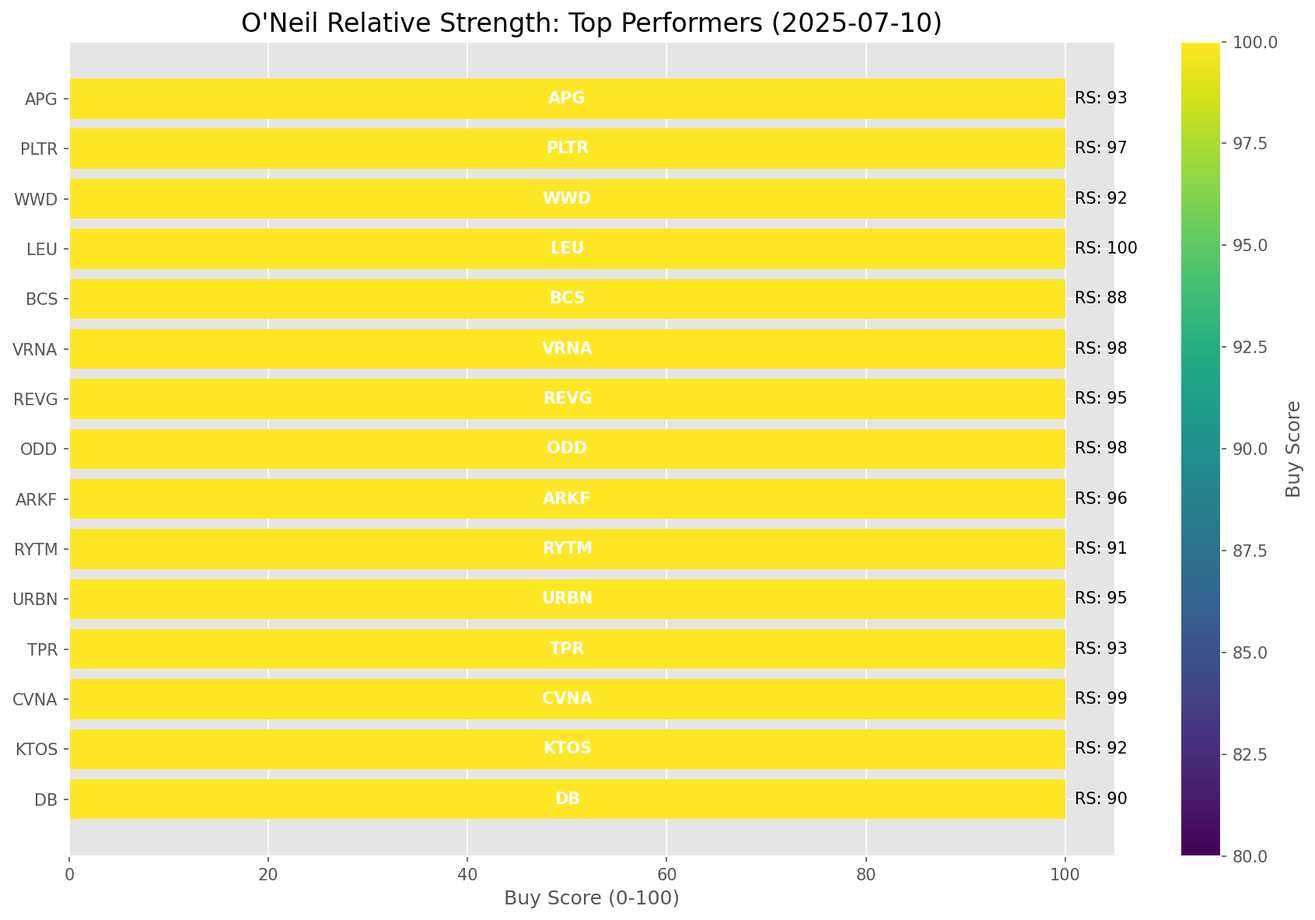
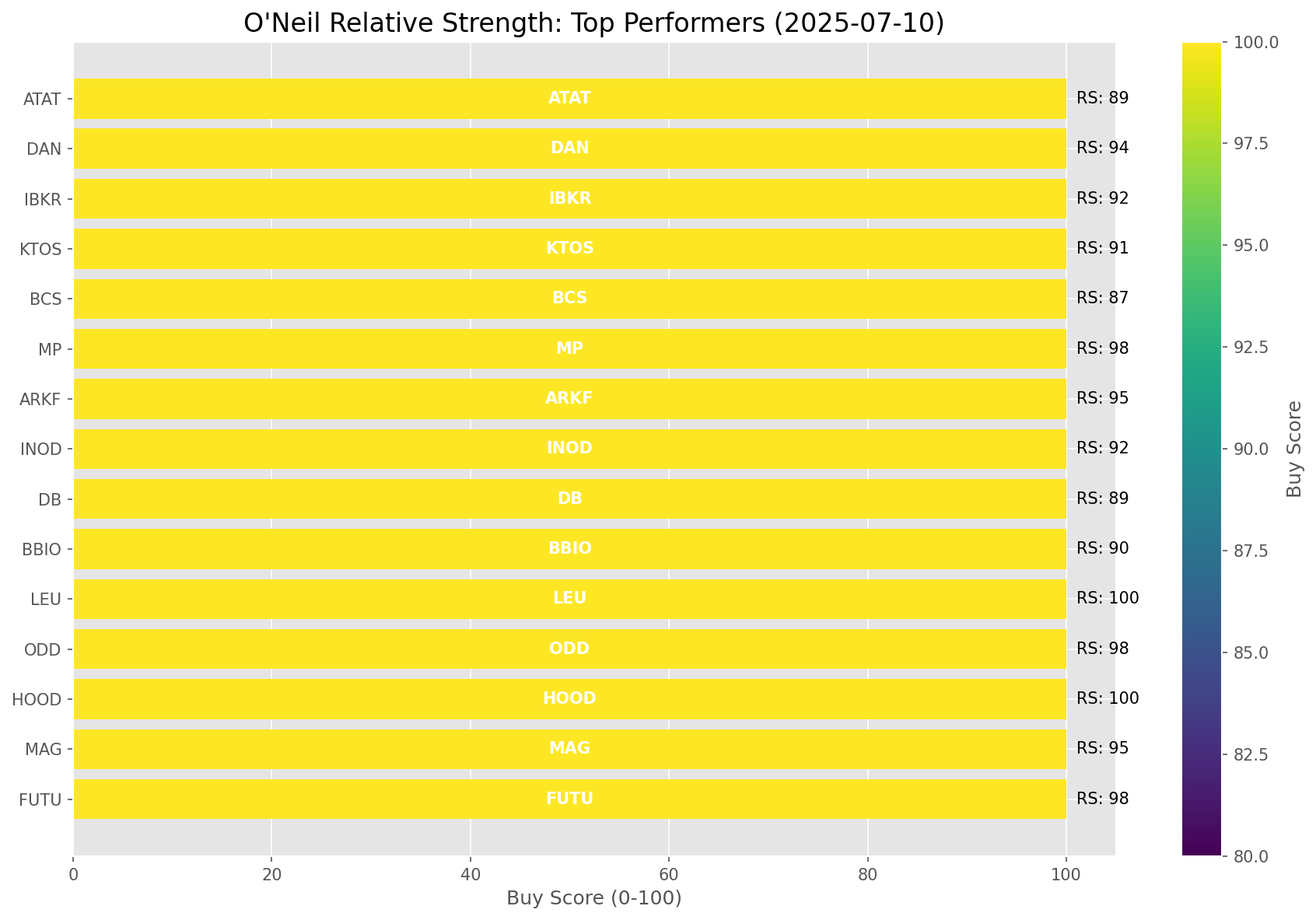
Add market report for 2025-07-10

diff --git a/oneil_relative_strength_report_2025-07-10.md b/oneil_relative_strength_report_2025-07-10.md
@@ -9,11 +9,11 @@
 | Metric | Value |
 |--------|-------|
 | **Market Valuation** | **Overvalued** |
-| **Current Ratio** | 10.26 |
+| **Current Ratio** | 10.28 |
 | **Historical Mean** | 9.44 |
 | **Standard Deviation** | 0.51 |
 | **Z-Score (StdDev from Mean)** | 1.62 |
-| **Total Market Cap** | $307.52 trillion |
+| **Total Market Cap** | $308.08 trillion |
 | **GDP** | $29.96 trillion |
 
 ## **Market Insights**
@@ -49,41 +49,41 @@ Based on William O'Neil's Relative Strength Methodology
 
 | ETF | Strength | RS Rating | Performance | Above Key MAs | Trend | Sector |
 |-----|----------|-----------|-------------|--------------|-------|--------|
-| [ARKK](https://www.tradingview.com/chart/?symbol=ARKK) | 98.5 | 97.0 | 79.26% | 10d ✓, 50d ✓, 200d ✓ | ↗ | Innovation |
+| [ARKK](https://www.tradingview.com/chart/?symbol=ARKK) | 98.0 | 96.0 | 79.47% | 10d ✓, 50d ✓, 200d ✓ | ↗ | Innovation |
 | [ARKW](https://www.tradingview.com/chart/?symbol=ARKW) | 98.0 | 96.0 | 76.14% | 10d ✓, 50d ✓, 200d ✓ | ↗ | Next Generation Internet |
-| [ARKF](https://www.tradingview.com/chart/?symbol=ARKF) | 98.0 | 96.0 | 73.83% | 10d ✓, 50d ✓, 200d ✓ | ↗ | Fintech Innovation |
-| [BLOK](https://www.tradingview.com/chart/?symbol=BLOK) | 95.5 | 91.0 | 54.17% | 10d ✓, 50d ✓, 200d ✓ | ↗ | Blockchain & Cryptocurrency |
-| [JETS](https://www.tradingview.com/chart/?symbol=JETS) | 93.5 | 87.0 | 45.94% | 10d ✓, 50d ✓, 200d ✓ | ↗ | Airlines |
-| [XLK](https://www.tradingview.com/chart/?symbol=XLK) | 92.5 | 85.0 | 42.58% | 10d ✓, 50d ✓, 200d ✓ | ↗ | Technology |
-| [URA](https://www.tradingview.com/chart/?symbol=URA) | 88.6 | 97.0 | 80.85% | 10d ✗, 50d ✓, 200d ✓ | ↗ | Uranium |
-| [PAVE](https://www.tradingview.com/chart/?symbol=PAVE) | 88.0 | 76.0 | 33.44% | 10d ✓, 50d ✓, 200d ✓ | ↗ | Infrastructure |
-| [XLI](https://www.tradingview.com/chart/?symbol=XLI) | 85.5 | 71.0 | 29.28% | 10d ✓, 50d ✓, 200d ✓ | ↗ | Industrial |
-| [XLY](https://www.tradingview.com/chart/?symbol=XLY) | 81.5 | 63.0 | 25.20% | 10d ✓, 50d ✓, 200d ✓ | ↗ | Consumer Discretionary |
-| [AIQ](https://www.tradingview.com/chart/?symbol=AIQ) | 80.6 | 81.0 | 38.03% | 10d ✗, 50d ✓, 200d ✓ | ↗ | Artificial Intelligence & Technology |
-| [SLV](https://www.tradingview.com/chart/?symbol=SLV) | 79.0 | 58.0 | 22.72% | 10d ✓, 50d ✓, 200d ✓ | ↗ | Silver |
-| [SOXX](https://www.tradingview.com/chart/?symbol=SOXX) | 76.5 | 93.0 | 58.94% | 10d ✓, 50d ✓, 200d ✓ | ↘ | Semiconductors |
-| [XLF](https://www.tradingview.com/chart/?symbol=XLF) | 76.0 | 52.0 | 19.55% | 10d ✓, 50d ✓, 200d ✓ | ↗ | Financial |
-| [CIBR](https://www.tradingview.com/chart/?symbol=CIBR) | 75.6 | 71.0 | 29.60% | 10d ✗, 50d ✓, 200d ✓ | ↗ | Cybersecurity |
-| [IYZ](https://www.tradingview.com/chart/?symbol=IYZ) | 75.0 | 50.0 | 18.50% | 10d ✓, 50d ✓, 200d ✓ | ↗ | Telecommunications |
-| [ARKG](https://www.tradingview.com/chart/?symbol=ARKG) | 72.5 | 85.0 | 42.09% | 10d ✓, 50d ✓, 200d ✓ | ↘ | Genomics |
-| [XLC](https://www.tradingview.com/chart/?symbol=XLC) | 70.1 | 60.0 | 23.77% | 10d ✗, 50d ✓, 200d ✓ | ↗ | Communications |
-| [XLU](https://www.tradingview.com/chart/?symbol=XLU) | 69.0 | 38.0 | 12.24% | 10d ✓, 50d ✓, 200d ✓ | ↗ | Utilities |
-| [KWEB](https://www.tradingview.com/chart/?symbol=KWEB) | 66.6 | 53.0 | 20.08% | 10d ✗, 50d ✓, 200d ✓ | ↗ | Chinese Internet |
-| [IYT](https://www.tradingview.com/chart/?symbol=IYT) | 66.5 | 73.0 | 31.12% | 10d ✓, 50d ✓, 200d ✓ | ↘ | Transportation |
-| [ICLN](https://www.tradingview.com/chart/?symbol=ICLN) | 64.5 | 69.0 | 28.27% | 10d ✓, 50d ✓, 200d ✓ | ↘ | Clean Energy |
-| [XLB](https://www.tradingview.com/chart/?symbol=XLB) | 61.0 | 62.0 | 24.74% | 10d ✓, 50d ✓, 200d ✓ | ↘ | Materials |
-| [XLE](https://www.tradingview.com/chart/?symbol=XLE) | 52.0 | 44.0 | 15.66% | 10d ✓, 50d ✓, 200d ✓ | ↘ | Energy |
-| [GLD](https://www.tradingview.com/chart/?symbol=GLD) | 48.2 | 36.0 | 11.11% | 10d ✗, 50d ✗, 200d ✓ | ↗ | Gold |
-| [DBC](https://www.tradingview.com/chart/?symbol=DBC) | 45.0 | 30.0 | 8.10% | 10d ✓, 50d ✓, 200d ✓ | ↘ | Commodities |
-| [IBB](https://www.tradingview.com/chart/?symbol=IBB) | 44.8 | 50.0 | 18.58% | 10d ✓, 50d ✓, 200d ✗ | ↘ | Biotechnology |
-| [ITB](https://www.tradingview.com/chart/?symbol=ITB) | 43.8 | 48.0 | 17.55% | 10d ✓, 50d ✓, 200d ✗ | ↘ | Home Construction |
-| [XLP](https://www.tradingview.com/chart/?symbol=XLP) | 43.2 | 26.0 | 6.27% | 10d ✗, 50d ✗, 200d ✓ | ↗ | Consumer Staples |
-| [IYR](https://www.tradingview.com/chart/?symbol=IYR) | 39.3 | 39.0 | 13.01% | 10d ✓, 50d ✓, 200d ✗ | ↘ | Real Estate |
-| [XLV](https://www.tradingview.com/chart/?symbol=XLV) | 29.8 | 20.0 | 2.71% | 10d ✓, 50d ✓, 200d ✗ | ↘ | Healthcare |
-| [DBA](https://www.tradingview.com/chart/?symbol=DBA) | 25.5 | 11.0 | -0.80% | 10d ✗, 50d ✗, 200d ✗ | ↗ | Agriculture |
-| [UUP](https://www.tradingview.com/chart/?symbol=UUP) | 13.9 | 8.0 | -3.86% | 10d ✓, 50d ✗, 200d ✗ | ↘ | U.S. Dollar |
-| [BIL](https://www.tradingview.com/chart/?symbol=BIL) | 6.5 | 13.0 | 0.03% | 10d ✗, 50d ✗, 200d ✗ | ↘ | Short-term Treasuries |
-| [TLT](https://www.tradingview.com/chart/?symbol=TLT) | 5.0 | 10.0 | -1.99% | 10d ✗, 50d ✗, 200d ✗ | ↘ | Long-term Treasuries |
+| [ARKF](https://www.tradingview.com/chart/?symbol=ARKF) | 97.5 | 95.0 | 73.96% | 10d ✓, 50d ✓, 200d ✓ | ↗ | Fintech Innovation |
+| [BLOK](https://www.tradingview.com/chart/?symbol=BLOK) | 96.5 | 93.0 | 62.39% | 10d ✓, 50d ✓, 200d ✓ | ↗ | Blockchain & Cryptocurrency |
+| [JETS](https://www.tradingview.com/chart/?symbol=JETS) | 93.5 | 87.0 | 47.32% | 10d ✓, 50d ✓, 200d ✓ | ↗ | Airlines |
+| [XLK](https://www.tradingview.com/chart/?symbol=XLK) | 92.0 | 84.0 | 42.67% | 10d ✓, 50d ✓, 200d ✓ | ↗ | Technology |
+| [URA](https://www.tradingview.com/chart/?symbol=URA) | 88.6 | 97.0 | 80.43% | 10d ✗, 50d ✓, 200d ✓ | ↗ | Uranium |
+| [PAVE](https://www.tradingview.com/chart/?symbol=PAVE) | 88.0 | 76.0 | 33.77% | 10d ✓, 50d ✓, 200d ✓ | ↗ | Infrastructure |
+| [XLI](https://www.tradingview.com/chart/?symbol=XLI) | 85.0 | 70.0 | 29.63% | 10d ✓, 50d ✓, 200d ✓ | ↗ | Industrial |
+| [XLY](https://www.tradingview.com/chart/?symbol=XLY) | 81.0 | 62.0 | 25.48% | 10d ✓, 50d ✓, 200d ✓ | ↗ | Consumer Discretionary |
+| [AIQ](https://www.tradingview.com/chart/?symbol=AIQ) | 80.1 | 80.0 | 38.11% | 10d ✗, 50d ✓, 200d ✓ | ↗ | Artificial Intelligence & Technology |
+| [SLV](https://www.tradingview.com/chart/?symbol=SLV) | 78.0 | 56.0 | 22.97% | 10d ✓, 50d ✓, 200d ✓ | ↗ | Silver |
+| [SOXX](https://www.tradingview.com/chart/?symbol=SOXX) | 76.0 | 92.0 | 59.17% | 10d ✓, 50d ✓, 200d ✓ | ↘ | Semiconductors |
+| [XLF](https://www.tradingview.com/chart/?symbol=XLF) | 75.5 | 51.0 | 19.96% | 10d ✓, 50d ✓, 200d ✓ | ↗ | Financial |
+| [CIBR](https://www.tradingview.com/chart/?symbol=CIBR) | 74.6 | 69.0 | 29.12% | 10d ✗, 50d ✓, 200d ✓ | ↗ | Cybersecurity |
+| [IYZ](https://www.tradingview.com/chart/?symbol=IYZ) | 74.0 | 48.0 | 18.50% | 10d ✓, 50d ✓, 200d ✓ | ↗ | Telecommunications |
+| [ARKG](https://www.tradingview.com/chart/?symbol=ARKG) | 72.0 | 84.0 | 42.58% | 10d ✓, 50d ✓, 200d ✓ | ↘ | Genomics |
+| [XLC](https://www.tradingview.com/chart/?symbol=XLC) | 69.1 | 58.0 | 23.66% | 10d ✗, 50d ✓, 200d ✓ | ↗ | Communications |
+| [XLU](https://www.tradingview.com/chart/?symbol=XLU) | 68.5 | 37.0 | 12.44% | 10d ✓, 50d ✓, 200d ✓ | ↗ | Utilities |
+| [IYT](https://www.tradingview.com/chart/?symbol=IYT) | 66.5 | 73.0 | 32.09% | 10d ✓, 50d ✓, 200d ✓ | ↘ | Transportation |
+| [ICLN](https://www.tradingview.com/chart/?symbol=ICLN) | 63.5 | 67.0 | 27.94% | 10d ✓, 50d ✓, 200d ✓ | ↘ | Clean Energy |
+| [XLB](https://www.tradingview.com/chart/?symbol=XLB) | 60.5 | 61.0 | 24.94% | 10d ✓, 50d ✓, 200d ✓ | ↘ | Materials |
+| [KWEB](https://www.tradingview.com/chart/?symbol=KWEB) | 55.7 | 51.0 | 19.78% | 10d ✗, 50d ✗, 200d ✓ | ↗ | Chinese Internet |
+| [IBB](https://www.tradingview.com/chart/?symbol=IBB) | 55.0 | 50.0 | 19.49% | 10d ✓, 50d ✓, 200d ✓ | ↘ | Biotechnology |
+| [XLE](https://www.tradingview.com/chart/?symbol=XLE) | 51.0 | 42.0 | 15.84% | 10d ✓, 50d ✓, 200d ✓ | ↘ | Energy |
+| [GLD](https://www.tradingview.com/chart/?symbol=GLD) | 47.2 | 34.0 | 11.04% | 10d ✗, 50d ✗, 200d ✓ | ↗ | Gold |
+| [DBC](https://www.tradingview.com/chart/?symbol=DBC) | 46.0 | 32.0 | 10.17% | 10d ✓, 50d ✓, 200d ✓ | ↘ | Commodities |
+| [ITB](https://www.tradingview.com/chart/?symbol=ITB) | 43.8 | 48.0 | 18.50% | 10d ✓, 50d ✓, 200d ✗ | ↘ | Home Construction |
+| [XLP](https://www.tradingview.com/chart/?symbol=XLP) | 43.2 | 26.0 | 6.48% | 10d ✗, 50d ✗, 200d ✓ | ↗ | Consumer Staples |
+| [IYR](https://www.tradingview.com/chart/?symbol=IYR) | 38.8 | 38.0 | 13.55% | 10d ✓, 50d ✓, 200d ✗ | ↘ | Real Estate |
+| [XLV](https://www.tradingview.com/chart/?symbol=XLV) | 29.8 | 20.0 | 3.41% | 10d ✓, 50d ✓, 200d ✗ | ↘ | Healthcare |
+| [DBA](https://www.tradingview.com/chart/?symbol=DBA) | 25.0 | 10.0 | -0.80% | 10d ✗, 50d ✗, 200d ✗ | ↗ | Agriculture |
+| [UUP](https://www.tradingview.com/chart/?symbol=UUP) | 13.4 | 7.0 | -3.84% | 10d ✓, 50d ✗, 200d ✗ | ↘ | U.S. Dollar |
+| [BIL](https://www.tradingview.com/chart/?symbol=BIL) | 6.0 | 12.0 | 0.03% | 10d ✗, 50d ✗, 200d ✗ | ↘ | Short-term Treasuries |
+| [TLT](https://www.tradingview.com/chart/?symbol=TLT) | 4.5 | 9.0 | -1.98% | 10d ✗, 50d ✗, 200d ✗ | ↘ | Long-term Treasuries |
 
 ### **Sector ETF Performance Interpretation**
 
@@ -100,150 +100,147 @@ This table shows the relative strength metrics for different market sectors base
 
 The current market leadership is coming from the following sectors: **Innovation, Next Generation Internet, Fintech Innovation**.
 
-The **Innovation** sector (represented by **ARKK**) is showing particularly strong relative strength with an RS rating of 97.0 and performance of 79.26% vs. the S&P 500. This sector is trading above its 10-day, 50-day, 200-day moving average(s). Investors should consider focusing on high RS stocks within these leading sectors for potential outperformance.
+The **Innovation** sector (represented by **ARKK**) is showing particularly strong relative strength with an RS rating of 96.0 and performance of 79.47% vs. the S&P 500. This sector is trading above its 10-day, 50-day, 200-day moving average(s). Investors should consider focusing on high RS stocks within these leading sectors for potential outperformance.
 
 ---
 
 ## **Buy Recommendations**
 
-The following 37 stocks show exceptional relative strength:
+The following 35 stocks show exceptional relative strength:
 
 | RS Rating | Buy Score | Current Price | Chart | Name | Ticker |
 |-----------|-----------|---------------|-------|------|--------|
-| 100 | 100 | $183.59 | [Chart](https://www.tradingview.com/chart/?symbol=LEU) | Centrus Energy Corp. | LEU |
-| 100 | 100 | $94.20 | [Chart](https://www.tradingview.com/chart/?symbol=HOOD) | Robinhood Markets, Inc. Class A Common Stock | HOOD |
-| 99 | 100 | $352.58 | [Chart](https://www.tradingview.com/chart/?symbol=CVNA) | Carvana Co. | CVNA |
-| 99 | 100 | $46.95 | [Chart](https://www.tradingview.com/chart/?symbol=MP) | MP Materials Corp. | MP |
-| 99 | 100 | $104.79 | [Chart](https://www.tradingview.com/chart/?symbol=RBLX) | Roblox Corporation | RBLX |
+| 100 | 100 | $94.56 | [Chart](https://www.tradingview.com/chart/?symbol=HOOD) | Robinhood Markets, Inc. Class A Common Stock | HOOD |
+| 100 | 100 | $187.70 | [Chart](https://www.tradingview.com/chart/?symbol=LEU) | Centrus Energy Corp. | LEU |
 | 99 | 100 | $145.69 | [Chart](https://www.tradingview.com/chart/?symbol=LMB) | Limbach Holdings, Inc Common Stock | LMB |
+| 98 | 100 | $143.04 | [Chart](https://www.tradingview.com/chart/?symbol=FUTU) | Futu Holdings Limited American Depositary Shares | FUTU |
 | 98 | 100 | $75.77 | [Chart](https://www.tradingview.com/chart/?symbol=ODD) | ODDITY Tech Ltd. Class A Ordinary Shares | ODD |
-| 98 | 100 | $104.85 | [Chart](https://www.tradingview.com/chart/?symbol=VRNA) | Verona Pharma plc | VRNA |
-| 98 | 100 | $144.76 | [Chart](https://www.tradingview.com/chart/?symbol=FUTU) | Futu Holdings Limited American Depositary Shares | FUTU |
-| 97 | 100 | $142.13 | [Chart](https://www.tradingview.com/chart/?symbol=PLTR) | Palantir Technologies Inc. Class A Common Stock | PLTR |
-| 97 | 100 | $526.75 | [Chart](https://www.tradingview.com/chart/?symbol=GEV) | GE Vernova Inc. | GEV |
-| 97 | 100 | $43.92 | [Chart](https://www.tradingview.com/chart/?symbol=FARO) | Faro Technologies Inc | FARO |
-| 96 | 100 | $50.74 | [Chart](https://www.tradingview.com/chart/?symbol=ARKF) | ARK Fintech Innovation ETF | ARKF |
-| 95 | 100 | $72.00 | [Chart](https://www.tradingview.com/chart/?symbol=URBN) | Urban Outfitters Inc | URBN |
-| 95 | 100 | $49.06 | [Chart](https://www.tradingview.com/chart/?symbol=REVG) | REV Group, Inc. | REVG |
-| 93 | 100 | $96.16 | [Chart](https://www.tradingview.com/chart/?symbol=TPR) | Tapestry, Inc. Common Stock | TPR |
-| 93 | 100 | $34.49 | [Chart](https://www.tradingview.com/chart/?symbol=APG) | APi Group Corporation | APG |
-| 93 | 100 | $51.06 | [Chart](https://www.tradingview.com/chart/?symbol=INOD) | Innodata Inc. | INOD |
-| 92 | 100 | $45.45 | [Chart](https://www.tradingview.com/chart/?symbol=KTOS) | Kratos Defense & Security Solutions, Inc. | KTOS |
-| 92 | 100 | $252.03 | [Chart](https://www.tradingview.com/chart/?symbol=WWD) | Woodward, Inc. | WWD |
-| 92 | 100 | $57.87 | [Chart](https://www.tradingview.com/chart/?symbol=IBKR) | Interactive Brokers Group, Inc. Class A Common Stock | IBKR |
-| 91 | 100 | $88.98 | [Chart](https://www.tradingview.com/chart/?symbol=RYTM) | Rhythm Pharmaceuticals, Inc. Common Stock | RYTM |
-| 91 | 100 | $46.41 | [Chart](https://www.tradingview.com/chart/?symbol=BBIO) | BridgeBio Pharma, Inc. Common Stock | BBIO |
-| 90 | 100 | $30.14 | [Chart](https://www.tradingview.com/chart/?symbol=DB) | Deutsche Bank Aktiengesellschaft | DB |
-| 90 | 100 | $36.55 | [Chart](https://www.tradingview.com/chart/?symbol=ATAT) | Atour Lifestyle Holdings Limited American Depositary Shares | ATAT |
-| 89 | 100 | $46.45 | [Chart](https://www.tradingview.com/chart/?symbol=DRS) | Leonardo DRS, Inc. Common Stock | DRS |
-| 88 | 100 | $18.75 | [Chart](https://www.tradingview.com/chart/?symbol=BCS) | Barclays PLC | BCS |
-| 88 | 98 | $103.46 | [Chart](https://www.tradingview.com/chart/?symbol=SANM) | Sanmina  Corp | SANM |
-| 87 | 98 | $25.59 | [Chart](https://www.tradingview.com/chart/?symbol=KAR) | OPENLANE, Inc | KAR |
-| 84 | 98 | $29.14 | [Chart](https://www.tradingview.com/chart/?symbol=SRAD) | Sportradar Group AG Class A Ordinary Shares | SRAD |
-| 87 | 97 | $63.27 | [Chart](https://www.tradingview.com/chart/?symbol=IBIT) | iShares Bitcoin Trust ETF | IBIT |
-| 87 | 97 | $29.98 | [Chart](https://www.tradingview.com/chart/?symbol=NTGR) | NETGEAR, Inc. | NTGR |
-| 83 | 96 | $29.36 | [Chart](https://www.tradingview.com/chart/?symbol=CAE) | CAE INC | CAE |
-| 82 | 96 | $97.10 | [Chart](https://www.tradingview.com/chart/?symbol=SNEX) | StoneX Group Inc. Common Stock | SNEX |
-| 81 | 93 | $26.44 | [Chart](https://www.tradingview.com/chart/?symbol=OR) | OR Royalties Inc. | OR |
-| 82 | 91 | $24.95 | [Chart](https://www.tradingview.com/chart/?symbol=PUK) | PRUDENTIAL PLC ADS (REP 2 ORD SHARES) | PUK |
-| 80 | 90 | $256.57 | [Chart](https://www.tradingview.com/chart/?symbol=WTS) | Watts Water Technologies, Inc. Class A | WTS |
+| 98 | 100 | $43.35 | [Chart](https://www.tradingview.com/chart/?symbol=MP) | MP Materials Corp. | MP |
+| 98 | 100 | $104.92 | [Chart](https://www.tradingview.com/chart/?symbol=VRNA) | Verona Pharma plc | VRNA |
+| 98 | 100 | $350.00 | [Chart](https://www.tradingview.com/chart/?symbol=CVNA) | Carvana Co. | CVNA |
+| 97 | 100 | $531.20 | [Chart](https://www.tradingview.com/chart/?symbol=GEV) | GE Vernova Inc. | GEV |
+| 97 | 100 | $140.12 | [Chart](https://www.tradingview.com/chart/?symbol=PLTR) | Palantir Technologies Inc. Class A Common Stock | PLTR |
+| 97 | 100 | $43.91 | [Chart](https://www.tradingview.com/chart/?symbol=FARO) | Faro Technologies Inc | FARO |
+| 95 | 100 | $21.36 | [Chart](https://www.tradingview.com/chart/?symbol=MAG) | MAG Silver Corp. | MAG |
+| 95 | 100 | $50.78 | [Chart](https://www.tradingview.com/chart/?symbol=ARKF) | ARK Fintech Innovation ETF | ARKF |
+| 95 | 100 | $72.88 | [Chart](https://www.tradingview.com/chart/?symbol=URBN) | Urban Outfitters Inc | URBN |
+| 94 | 100 | $17.40 | [Chart](https://www.tradingview.com/chart/?symbol=DAN) | Dana Incorporated | DAN |
+| 93 | 100 | $34.43 | [Chart](https://www.tradingview.com/chart/?symbol=APG) | APi Group Corporation | APG |
+| 93 | 100 | $97.40 | [Chart](https://www.tradingview.com/chart/?symbol=TPR) | Tapestry, Inc. Common Stock | TPR |
+| 92 | 100 | $51.09 | [Chart](https://www.tradingview.com/chart/?symbol=INOD) | Innodata Inc. | INOD |
+| 92 | 100 | $58.35 | [Chart](https://www.tradingview.com/chart/?symbol=IBKR) | Interactive Brokers Group, Inc. Class A Common Stock | IBKR |
+| 91 | 100 | $45.17 | [Chart](https://www.tradingview.com/chart/?symbol=KTOS) | Kratos Defense & Security Solutions, Inc. | KTOS |
+| 90 | 100 | $46.06 | [Chart](https://www.tradingview.com/chart/?symbol=BBIO) | BridgeBio Pharma, Inc. Common Stock | BBIO |
+| 89 | 100 | $30.00 | [Chart](https://www.tradingview.com/chart/?symbol=DB) | Deutsche Bank Aktiengesellschaft | DB |
+| 89 | 100 | $36.29 | [Chart](https://www.tradingview.com/chart/?symbol=ATAT) | Atour Lifestyle Holdings Limited American Depositary Shares | ATAT |
+| 87 | 100 | $18.69 | [Chart](https://www.tradingview.com/chart/?symbol=BCS) | Barclays PLC | BCS |
+| 90 | 99 | $87.73 | [Chart](https://www.tradingview.com/chart/?symbol=RYTM) | Rhythm Pharmaceuticals, Inc. Common Stock | RYTM |
+| 87 | 97 | $103.75 | [Chart](https://www.tradingview.com/chart/?symbol=SANM) | Sanmina  Corp | SANM |
+| 86 | 97 | $43.65 | [Chart](https://www.tradingview.com/chart/?symbol=TOST) | Toast, Inc. | TOST |
+| 86 | 97 | $25.69 | [Chart](https://www.tradingview.com/chart/?symbol=KAR) | OPENLANE, Inc | KAR |
+| 86 | 96 | $63.19 | [Chart](https://www.tradingview.com/chart/?symbol=IBIT) | iShares Bitcoin Trust ETF | IBIT |
+| 86 | 96 | $29.98 | [Chart](https://www.tradingview.com/chart/?symbol=NTGR) | NETGEAR, Inc. | NTGR |
+| 82 | 96 | $28.96 | [Chart](https://www.tradingview.com/chart/?symbol=SRAD) | Sportradar Group AG Class A Ordinary Shares | SRAD |
+| 81 | 94 | $29.27 | [Chart](https://www.tradingview.com/chart/?symbol=CAE) | CAE INC | CAE |
+| 80 | 94 | $96.62 | [Chart](https://www.tradingview.com/chart/?symbol=SNEX) | StoneX Group Inc. Common Stock | SNEX |
+| 80 | 91 | $14.27 | [Chart](https://www.tradingview.com/chart/?symbol=CNH) | CNH INDUSTRIAL N.V. | CNH |
+| 81 | 90 | $25.00 | [Chart](https://www.tradingview.com/chart/?symbol=PUK) | PRUDENTIAL PLC ADS (REP 2 ORD SHARES) | PUK |
 
 ---
 
 
 ## **Sell Recommendations**
 
-The following 87 stocks show deteriorating relative strength:
+The following 86 stocks show deteriorating relative strength:
 
 | RS Rating | Sell Score | Current Price | Chart | Name | Ticker |
 |-----------|------------|---------------|-------|------|--------|
+| 1 | 100 | $25.77 | [Chart](https://www.tradingview.com/chart/?symbol=TECS) | Direxion Daily Technology Bear 3x Shares | TECS |
+| 1 | 100 | $16.32 | [Chart](https://www.tradingview.com/chart/?symbol=SDS) | ProShares UltraShort S&P500 | SDS |
 | 1 | 100 | $25.16 | [Chart](https://www.tradingview.com/chart/?symbol=QID) | ProShares UltraShort QQQ | QID |
-| 1 | 100 | $16.38 | [Chart](https://www.tradingview.com/chart/?symbol=SDS) | ProShares UltraShort S&P500 | SDS |
-| 1 | 100 | $25.81 | [Chart](https://www.tradingview.com/chart/?symbol=TECS) | Direxion Daily Technology Bear 3x Shares | TECS |
-| 1 | 100 | $40.18 | [Chart](https://www.tradingview.com/chart/?symbol=SDOW) | ProShares UltraPro Short Dow 30 | SDOW |
-| 1 | 100 | $24.80 | [Chart](https://www.tradingview.com/chart/?symbol=ZSL) | ProShares UltraShort Silver | ZSL |
-| 2 | 100 | $23.85 | [Chart](https://www.tradingview.com/chart/?symbol=DXD) | ProShares UltraShort Dow 30 | DXD |
-| 2 | 100 | $232.50 | [Chart](https://www.tradingview.com/chart/?symbol=MOH) | Molina Healthcare, Inc. | MOH |
-| 2 | 100 | $13.05 | [Chart](https://www.tradingview.com/chart/?symbol=IART) | Integra LifeSciences Holdings | IART |
-| 2 | 100 | $33.59 | [Chart](https://www.tradingview.com/chart/?symbol=PSQ) | ProShares Short QQQ | PSQ |
+| 1 | 100 | $24.70 | [Chart](https://www.tradingview.com/chart/?symbol=ZSL) | ProShares UltraShort Silver | ZSL |
+| 1 | 100 | $39.72 | [Chart](https://www.tradingview.com/chart/?symbol=SDOW) | ProShares UltraPro Short Dow 30 | SDOW |
 | 2 | 100 | $34.67 | [Chart](https://www.tradingview.com/chart/?symbol=SARK) | Investment Managers Series Trust II Tradr 1X Short Innovation Daily ETF | SARK |
-| 2 | 100 | $39.38 | [Chart](https://www.tradingview.com/chart/?symbol=SH) | ProShares Short S&P500 | SH |
-| 2 | 100 | $19.00 | [Chart](https://www.tradingview.com/chart/?symbol=BITI) | ProShares Short Bitcoin ETF | BITI |
+| 2 | 100 | $23.55 | [Chart](https://www.tradingview.com/chart/?symbol=DXD) | ProShares UltraShort Dow 30 | DXD |
+| 2 | 100 | $33.57 | [Chart](https://www.tradingview.com/chart/?symbol=PSQ) | ProShares Short QQQ | PSQ |
+| 2 | 100 | $235.60 | [Chart](https://www.tradingview.com/chart/?symbol=MOH) | Molina Healthcare, Inc. | MOH |
 | 2 | 100 | $10.25 | [Chart](https://www.tradingview.com/chart/?symbol=SNDX) | Syndax Pharmaceuticals, Inc. | SNDX |
-| 3 | 100 | $234.42 | [Chart](https://www.tradingview.com/chart/?symbol=HUM) | Humana Inc. | HUM |
-| 3 | 100 | $24.78 | [Chart](https://www.tradingview.com/chart/?symbol=CRTO) | Criteo S.A. | CRTO |
-| 3 | 100 | $25.24 | [Chart](https://www.tradingview.com/chart/?symbol=DOG) | ProShares Short Dow30 | DOG |
-| 3 | 100 | $10.37 | [Chart](https://www.tradingview.com/chart/?symbol=LBTYK) | Liberty Global Ltd. Class C Common Shares | LBTYK |
+| 2 | 100 | $39.29 | [Chart](https://www.tradingview.com/chart/?symbol=SH) | ProShares Short S&P500 | SH |
+| 2 | 100 | $19.02 | [Chart](https://www.tradingview.com/chart/?symbol=BITI) | ProShares Short Bitcoin ETF | BITI |
+| 3 | 100 | $236.70 | [Chart](https://www.tradingview.com/chart/?symbol=HUM) | Humana Inc. | HUM |
 | 3 | 100 | $12.55 | [Chart](https://www.tradingview.com/chart/?symbol=CCRN) | Cross Country Healthcare Inc | CCRN |
-| 3 | 100 | $42.86 | [Chart](https://www.tradingview.com/chart/?symbol=LINE) | Lineage, Inc. Common Stock | LINE |
+| 3 | 100 | $25.15 | [Chart](https://www.tradingview.com/chart/?symbol=DOG) | ProShares Short Dow30 | DOG |
+| 3 | 100 | $24.78 | [Chart](https://www.tradingview.com/chart/?symbol=CRTO) | Criteo S.A. | CRTO |
 | 3 | 100 | $37.27 | [Chart](https://www.tradingview.com/chart/?symbol=IBTA) | Ibotta, Inc. | IBTA |
+| 4 | 100 | $43.72 | [Chart](https://www.tradingview.com/chart/?symbol=LINE) | Lineage, Inc. Common Stock | LINE |
+| 4 | 100 | $10.49 | [Chart](https://www.tradingview.com/chart/?symbol=LBTYK) | Liberty Global Ltd. Class C Common Shares | LBTYK |
 | 4 | 100 | $65.01 | [Chart](https://www.tradingview.com/chart/?symbol=ZROZ) | PIMCO 25+ Year Zero Coupon U.S. Treasury Index Exchange-Traded Fund | ZROZ |
-| 4 | 100 | $134.45 | [Chart](https://www.tradingview.com/chart/?symbol=INSP) | Inspire Medical Systems, Inc. | INSP |
-| 5 | 100 | $17.21 | [Chart](https://www.tradingview.com/chart/?symbol=HP) | Helmerich & Payne, Inc. | HP |
-| 5 | 100 | $32.47 | [Chart](https://www.tradingview.com/chart/?symbol=CRI) | Carter's Inc. | CRI |
-| 5 | 100 | $55.80 | [Chart](https://www.tradingview.com/chart/?symbol=AMWD) | American Woodmark Corp | AMWD |
+| 4 | 100 | $55.80 | [Chart](https://www.tradingview.com/chart/?symbol=AMWD) | American Woodmark Corp | AMWD |
 | 5 | 100 | $10.20 | [Chart](https://www.tradingview.com/chart/?symbol=LBTYA) | Liberty Global Ltd. Class A Common Shares | LBTYA |
-| 6 | 100 | $14.54 | [Chart](https://www.tradingview.com/chart/?symbol=SEM) | SELECT MEDICAL HOLDINGS CORP | SEM |
-| 7 | 100 | $15.61 | [Chart](https://www.tradingview.com/chart/?symbol=TNDM) | Tandem Diabetes Care, Inc. | TNDM |
+| 5 | 100 | $49.28 | [Chart](https://www.tradingview.com/chart/?symbol=CCOI) | Cogent Communications Holdings, Inc. | CCOI |
+| 6 | 100 | $14.63 | [Chart](https://www.tradingview.com/chart/?symbol=SEM) | SELECT MEDICAL HOLDINGS CORP | SEM |
+| 6 | 100 | $10.35 | [Chart](https://www.tradingview.com/chart/?symbol=NMZ) | Nuveen Municipal High Income Opportunity Fund | NMZ |
+| 7 | 100 | $52.91 | [Chart](https://www.tradingview.com/chart/?symbol=CNMD) | CONMED Corporation | CNMD |
+| 7 | 100 | $16.66 | [Chart](https://www.tradingview.com/chart/?symbol=COLD) | Americold Realty Trust, Inc. | COLD |
 | 7 | 100 | $14.59 | [Chart](https://www.tradingview.com/chart/?symbol=VRE) | Veris Residential, Inc. | VRE |
-| 7 | 100 | $16.51 | [Chart](https://www.tradingview.com/chart/?symbol=COLD) | Americold Realty Trust, Inc. | COLD |
-| 7 | 100 | $10.35 | [Chart](https://www.tradingview.com/chart/?symbol=NMZ) | Nuveen Municipal High Income Opportunity Fund | NMZ |
-| 8 | 100 | $52.91 | [Chart](https://www.tradingview.com/chart/?symbol=CNMD) | CONMED Corporation | CNMD |
-| 9 | 100 | $51.08 | [Chart](https://www.tradingview.com/chart/?symbol=LW) | Lamb Weston Holdings, Inc. | LW |
-| 10 | 100 | $86.59 | [Chart](https://www.tradingview.com/chart/?symbol=TLT) | iShares 20+ Year Treasury Bond ETF | TLT |
-| 10 | 100 | $40.91 | [Chart](https://www.tradingview.com/chart/?symbol=POR) | Portland General Electric Company | POR |
-| 11 | 100 | $132.01 | [Chart](https://www.tradingview.com/chart/?symbol=KMB) | Kimberly-Clark Corp. | KMB |
-| 12 | 100 | $29.14 | [Chart](https://www.tradingview.com/chart/?symbol=SPTS) | SPDR Portfolio Short Term Treasury ETF | SPTS |
-| 6 | 99 | $49.28 | [Chart](https://www.tradingview.com/chart/?symbol=CCOI) | Cogent Communications Holdings, Inc. | CCOI |
-| 9 | 99 | $71.64 | [Chart](https://www.tradingview.com/chart/?symbol=TNET) | TRINET GROUP, INC. | TNET |
-| 5 | 98 | $17.11 | [Chart](https://www.tradingview.com/chart/?symbol=NOMD) | Nomad Foods Limited | NOMD |
-| 9 | 98 | $13.16 | [Chart](https://www.tradingview.com/chart/?symbol=GO) | Grocery Outlet Holding Corp. Common Stock | GO |
-| 3 | 97 | $50.05 | [Chart](https://www.tradingview.com/chart/?symbol=TAP) | Molson Coors Beverage Company Class B | TAP |
-| 5 | 97 | $25.28 | [Chart](https://www.tradingview.com/chart/?symbol=DRV) | Direxion Daily Real Estate Bear 3X Shares | DRV |
-| 9 | 97 | $46.27 | [Chart](https://www.tradingview.com/chart/?symbol=CWT) | California Water Service | CWT |
-| 12 | 97 | $22.85 | [Chart](https://www.tradingview.com/chart/?symbol=IBTG) | iShares iBonds Dec 2026 Term Treasury ETF | IBTG |
-| 13 | 97 | $77.08 | [Chart](https://www.tradingview.com/chart/?symbol=CNS) | Cohen & Steers Inc. | CNS |
-| 10 | 96 | $49.05 | [Chart](https://www.tradingview.com/chart/?symbol=SNY) | Sanofi American Depositary Shares (Each representing one-half of one ordinary share) | SNY |
-| 17 | 96 | $47.39 | [Chart](https://www.tradingview.com/chart/?symbol=KBR) | KBR, Inc. | KBR |
-| 6 | 95 | $27.79 | [Chart](https://www.tradingview.com/chart/?symbol=BRZE) | Braze, Inc. Class A Common Stock | BRZE |
-| 9 | 94 | $21.74 | [Chart](https://www.tradingview.com/chart/?symbol=TUA) | Simplify Short Term Treasury Futures Strategy ETF | TUA |
-| 12 | 94 | $82.44 | [Chart](https://www.tradingview.com/chart/?symbol=SHY) | iShares 1-3 Year Treasury Bond ETF | SHY |
-| 11 | 92 | $35.94 | [Chart](https://www.tradingview.com/chart/?symbol=OHI) | Omega Healthcare Investors Inc. | OHI |
-| 21 | 92 | $105.09 | [Chart](https://www.tradingview.com/chart/?symbol=DECK) | Deckers Outdoor Corp | DECK |
-| 23 | 92 | $461.90 | [Chart](https://www.tradingview.com/chart/?symbol=LMT) | Lockheed Martin Corp. | LMT |
-| 13 | 91 | $110.17 | [Chart](https://www.tradingview.com/chart/?symbol=SHV) | iShares Short Treasury Bond ETF | SHV |
-| 20 | 90 | $13.97 | [Chart](https://www.tradingview.com/chart/?symbol=DOLE) | Dole plc | DOLE |
-| 14 | 89 | $100.28 | [Chart](https://www.tradingview.com/chart/?symbol=MINT) | PIMCO Enhanced Short Maturity Active Exchange-Traded Fund | MINT |
-| 14 | 89 | $59.90 | [Chart](https://www.tradingview.com/chart/?symbol=FTSM) | First Trust Enhanced Short Maturity ETF | FTSM |
-| 16 | 89 | $34.57 | [Chart](https://www.tradingview.com/chart/?symbol=PECO) | Phillips Edison & Company, Inc. Common Stock | PECO |
-| 19 | 89 | $24.61 | [Chart](https://www.tradingview.com/chart/?symbol=HYMB) | SPDR Nuveen ICE High Yield Municipal Bond ETF | HYMB |
-| 24 | 89 | $86.33 | [Chart](https://www.tradingview.com/chart/?symbol=SIGI) | Selective Insurance Group | SIGI |
-| 26 | 89 | $32.45 | [Chart](https://www.tradingview.com/chart/?symbol=INVH) | Invitation Homes Inc. Common Stock | INVH |
-| 26 | 88 | $61.38 | [Chart](https://www.tradingview.com/chart/?symbol=UL) | Unilever plc | UL |
-| 15 | 87 | $49.19 | [Chart](https://www.tradingview.com/chart/?symbol=BNDX) | Vanguard Total International Bond ETF | BNDX |
-| 22 | 87 | $105.64 | [Chart](https://www.tradingview.com/chart/?symbol=DEO) | Diageo plc | DEO |
-| 19 | 86 | $26.16 | [Chart](https://www.tradingview.com/chart/?symbol=PNTG) | The Pennant Group, Inc. Common Stock | PNTG |
-| 21 | 86 | $164.11 | [Chart](https://www.tradingview.com/chart/?symbol=HSY) | The Hershey Company | HSY |
+| 8 | 100 | $71.64 | [Chart](https://www.tradingview.com/chart/?symbol=TNET) | TRINET GROUP, INC. | TNET |
+| 8 | 100 | $15.88 | [Chart](https://www.tradingview.com/chart/?symbol=TNDM) | Tandem Diabetes Care, Inc. | TNDM |
+| 9 | 100 | $86.61 | [Chart](https://www.tradingview.com/chart/?symbol=TLT) | iShares 20+ Year Treasury Bond ETF | TLT |
+| 9 | 100 | $51.31 | [Chart](https://www.tradingview.com/chart/?symbol=LW) | Lamb Weston Holdings, Inc. | LW |
+| 10 | 100 | $132.32 | [Chart](https://www.tradingview.com/chart/?symbol=KMB) | Kimberly-Clark Corp. | KMB |
+| 11 | 100 | $29.14 | [Chart](https://www.tradingview.com/chart/?symbol=SPTS) | SPDR Portfolio Short Term Treasury ETF | SPTS |
+| 11 | 100 | $41.32 | [Chart](https://www.tradingview.com/chart/?symbol=POR) | Portland General Electric Company | POR |
+| 4 | 99 | $17.11 | [Chart](https://www.tradingview.com/chart/?symbol=NOMD) | Nomad Foods Limited | NOMD |
+| 4 | 98 | $25.28 | [Chart](https://www.tradingview.com/chart/?symbol=DRV) | Direxion Daily Real Estate Bear 3X Shares | DRV |
+| 6 | 98 | $27.23 | [Chart](https://www.tradingview.com/chart/?symbol=VCYT) | Veracyte, Inc. | VCYT |
+| 8 | 98 | $46.27 | [Chart](https://www.tradingview.com/chart/?symbol=CWT) | California Water Service | CWT |
+| 9 | 98 | $13.15 | [Chart](https://www.tradingview.com/chart/?symbol=GO) | Grocery Outlet Holding Corp. Common Stock | GO |
+| 11 | 98 | $22.85 | [Chart](https://www.tradingview.com/chart/?symbol=IBTG) | iShares iBonds Dec 2026 Term Treasury ETF | IBTG |
+| 12 | 98 | $77.08 | [Chart](https://www.tradingview.com/chart/?symbol=CNS) | Cohen & Steers Inc. | CNS |
+| 3 | 97 | $50.30 | [Chart](https://www.tradingview.com/chart/?symbol=TAP) | Molson Coors Beverage Company Class B | TAP |
+| 8 | 97 | $21.70 | [Chart](https://www.tradingview.com/chart/?symbol=TUA) | Simplify Short Term Treasury Futures Strategy ETF | TUA |
+| 9 | 96 | $49.17 | [Chart](https://www.tradingview.com/chart/?symbol=SNY) | Sanofi American Depositary Shares (Each representing one-half of one ordinary share) | SNY |
+| 16 | 96 | $47.39 | [Chart](https://www.tradingview.com/chart/?symbol=KBR) | KBR, Inc. | KBR |
+| 11 | 94 | $82.44 | [Chart](https://www.tradingview.com/chart/?symbol=SHY) | iShares 1-3 Year Treasury Bond ETF | SHY |
+| 22 | 93 | $462.06 | [Chart](https://www.tradingview.com/chart/?symbol=LMT) | Lockheed Martin Corp. | LMT |
+| 11 | 91 | $36.03 | [Chart](https://www.tradingview.com/chart/?symbol=OHI) | Omega Healthcare Investors Inc. | OHI |
+| 12 | 91 | $110.17 | [Chart](https://www.tradingview.com/chart/?symbol=SHV) | iShares Short Treasury Bond ETF | SHV |
+| 19 | 91 | $13.97 | [Chart](https://www.tradingview.com/chart/?symbol=DOLE) | Dole plc | DOLE |
+| 21 | 91 | $105.93 | [Chart](https://www.tradingview.com/chart/?symbol=DECK) | Deckers Outdoor Corp | DECK |
+| 13 | 90 | $59.90 | [Chart](https://www.tradingview.com/chart/?symbol=FTSM) | First Trust Enhanced Short Maturity ETF | FTSM |
+| 15 | 90 | $34.57 | [Chart](https://www.tradingview.com/chart/?symbol=PECO) | Phillips Edison & Company, Inc. Common Stock | PECO |
+| 18 | 90 | $24.62 | [Chart](https://www.tradingview.com/chart/?symbol=HYMB) | SPDR Nuveen ICE High Yield Municipal Bond ETF | HYMB |
+| 23 | 90 | $86.33 | [Chart](https://www.tradingview.com/chart/?symbol=SIGI) | Selective Insurance Group | SIGI |
+| 13 | 89 | $100.29 | [Chart](https://www.tradingview.com/chart/?symbol=MINT) | PIMCO Enhanced Short Maturity Active Exchange-Traded Fund | MINT |
+| 25 | 89 | $61.41 | [Chart](https://www.tradingview.com/chart/?symbol=UL) | Unilever plc | UL |
+| 26 | 89 | $32.57 | [Chart](https://www.tradingview.com/chart/?symbol=INVH) | Invitation Homes Inc. Common Stock | INVH |
+| 13 | 87 | $50.56 | [Chart](https://www.tradingview.com/chart/?symbol=ICSH) | iShares Ultra Short Duration Bond Active ETF | ICSH |
+| 18 | 87 | $26.16 | [Chart](https://www.tradingview.com/chart/?symbol=PNTG) | The Pennant Group, Inc. Common Stock | PNTG |
+| 19 | 87 | $36.22 | [Chart](https://www.tradingview.com/chart/?symbol=PBA) | PEMBINA PIPELINE CORPORATION | PBA |
+| 21 | 87 | $105.83 | [Chart](https://www.tradingview.com/chart/?symbol=DEO) | Diageo plc | DEO |
+| 21 | 86 | $165.03 | [Chart](https://www.tradingview.com/chart/?symbol=HSY) | The Hershey Company | HSY |
+| 16 | 84 | $35.57 | [Chart](https://www.tradingview.com/chart/?symbol=VERX) | Vertex, Inc. Class A Common Stock | VERX |
+| 16 | 84 | $25.19 | [Chart](https://www.tradingview.com/chart/?symbol=TBBB) | BBB Foods Inc. | TBBB |
+| 20 | 84 | $13.99 | [Chart](https://www.tradingview.com/chart/?symbol=CGBD) | Carlyle Secured Lending, Inc. Common Stock | CGBD |
 | 20 | 84 | $77.65 | [Chart](https://www.tradingview.com/chart/?symbol=AWR) | American States Water Company | AWR |
-| 17 | 83 | $25.19 | [Chart](https://www.tradingview.com/chart/?symbol=TBBB) | BBB Foods Inc. | TBBB |
-| 19 | 83 | $287.65 | [Chart](https://www.tradingview.com/chart/?symbol=ACN) | Accenture PLC | ACN |
-| 20 | 83 | $20.40 | [Chart](https://www.tradingview.com/chart/?symbol=CON) | Concentra Group Holdings Parent, Inc. | CON |
-| 30 | 83 | $15.97 | [Chart](https://www.tradingview.com/chart/?symbol=BNL) | Broadstone Net Lease, Inc. | BNL |
-| 22 | 81 | $19.10 | [Chart](https://www.tradingview.com/chart/?symbol=MSDL) | Morgan Stanley Direct Lending Fund | MSDL |
-| 27 | 81 | $120.47 | [Chart](https://www.tradingview.com/chart/?symbol=ITGR) | Integer Holdings Corporation | ITGR |
-| 27 | 81 | $40.53 | [Chart](https://www.tradingview.com/chart/?symbol=UDR) | UDR, Inc. | UDR |
-| 36 | 78 | $18.09 | [Chart](https://www.tradingview.com/chart/?symbol=S) | SentinelOne, Inc. | S |
-| 31 | 76 | $35.72 | [Chart](https://www.tradingview.com/chart/?symbol=AMH) | AMERICAN HOMES 4 RENT | AMH |
-| 30 | 75 | $66.98 | [Chart](https://www.tradingview.com/chart/?symbol=EQR) | Equity Residential | EQR |
-| 34 | 75 | $18.10 | [Chart](https://www.tradingview.com/chart/?symbol=INFY) | Infosys Limited American Depositary Shares | INFY |
-| 29 | 74 | $39.94 | [Chart](https://www.tradingview.com/chart/?symbol=LZB) | La-Z-Boy Incorporated | LZB |
-| 32 | 74 | $166.84 | [Chart](https://www.tradingview.com/chart/?symbol=EGP) | EastGroup Properties Inc. | EGP |
-| 33 | 74 | $56.44 | [Chart](https://www.tradingview.com/chart/?symbol=USRT) | iShares Core U.S. REIT ETF | USRT |
-| 35 | 70 | $102.46 | [Chart](https://www.tradingview.com/chart/?symbol=FMX) | FOMENTO ECONOMICO MEXICANO, S.A.B. DE C.V. | FMX |
-| 31 | 69 | $240.25 | [Chart](https://www.tradingview.com/chart/?symbol=RNR) | RenaissanceRe Holdings Ltd. | RNR |
-| 36 | 67 | $58.71 | [Chart](https://www.tradingview.com/chart/?symbol=ESNT) | Essent Group LTD | ESNT |
-| 37 | 66 | $105.03 | [Chart](https://www.tradingview.com/chart/?symbol=PDD) | PDD Holdings Inc. American Depositary Shares | PDD |
-| 39 | 64 | $67.70 | [Chart](https://www.tradingview.com/chart/?symbol=QSR) | Restaurant Brands International Inc. | QSR |
+| 19 | 83 | $20.41 | [Chart](https://www.tradingview.com/chart/?symbol=CON) | Concentra Group Holdings Parent, Inc. | CON |
+| 29 | 83 | $15.96 | [Chart](https://www.tradingview.com/chart/?symbol=BNL) | Broadstone Net Lease, Inc. | BNL |
+| 26 | 82 | $120.47 | [Chart](https://www.tradingview.com/chart/?symbol=ITGR) | Integer Holdings Corporation | ITGR |
+| 26 | 82 | $40.73 | [Chart](https://www.tradingview.com/chart/?symbol=UDR) | UDR, Inc. | UDR |
+| 26 | 81 | $99.70 | [Chart](https://www.tradingview.com/chart/?symbol=FMX) | FOMENTO ECONOMICO MEXICANO, S.A.B. DE C.V. | FMX |
+| 34 | 80 | $18.07 | [Chart](https://www.tradingview.com/chart/?symbol=S) | SentinelOne, Inc. | S |
+| 28 | 77 | $19.15 | [Chart](https://www.tradingview.com/chart/?symbol=MSDL) | Morgan Stanley Direct Lending Fund | MSDL |
+| 27 | 76 | $35.12 | [Chart](https://www.tradingview.com/chart/?symbol=LTC) | LTC Properties, Inc. | LTC |
+| 29 | 76 | $57.29 | [Chart](https://www.tradingview.com/chart/?symbol=ESNT) | Essent Group LTD | ESNT |
+| 31 | 76 | $56.44 | [Chart](https://www.tradingview.com/chart/?symbol=USRT) | iShares Core U.S. REIT ETF | USRT |
+| 28 | 75 | $39.94 | [Chart](https://www.tradingview.com/chart/?symbol=LZB) | La-Z-Boy Incorporated | LZB |
+| 31 | 75 | $35.90 | [Chart](https://www.tradingview.com/chart/?symbol=AMH) | AMERICAN HOMES 4 RENT | AMH |
+| 31 | 75 | $166.84 | [Chart](https://www.tradingview.com/chart/?symbol=EGP) | EastGroup Properties Inc. | EGP |
+| 33 | 75 | $18.18 | [Chart](https://www.tradingview.com/chart/?symbol=INFY) | Infosys Limited American Depositary Shares | INFY |
+| 31 | 74 | $67.47 | [Chart](https://www.tradingview.com/chart/?symbol=EQR) | Equity Residential | EQR |
+| 30 | 70 | $240.25 | [Chart](https://www.tradingview.com/chart/?symbol=RNR) | RenaissanceRe Holdings Ltd. | RNR |
+| 35 | 68 | $104.87 | [Chart](https://www.tradingview.com/chart/?symbol=PDD) | PDD Holdings Inc. American Depositary Shares | PDD |
+| 38 | 65 | $67.87 | [Chart](https://www.tradingview.com/chart/?symbol=QSR) | Restaurant Brands International Inc. | QSR |
 
 ## **Methodology**
 
